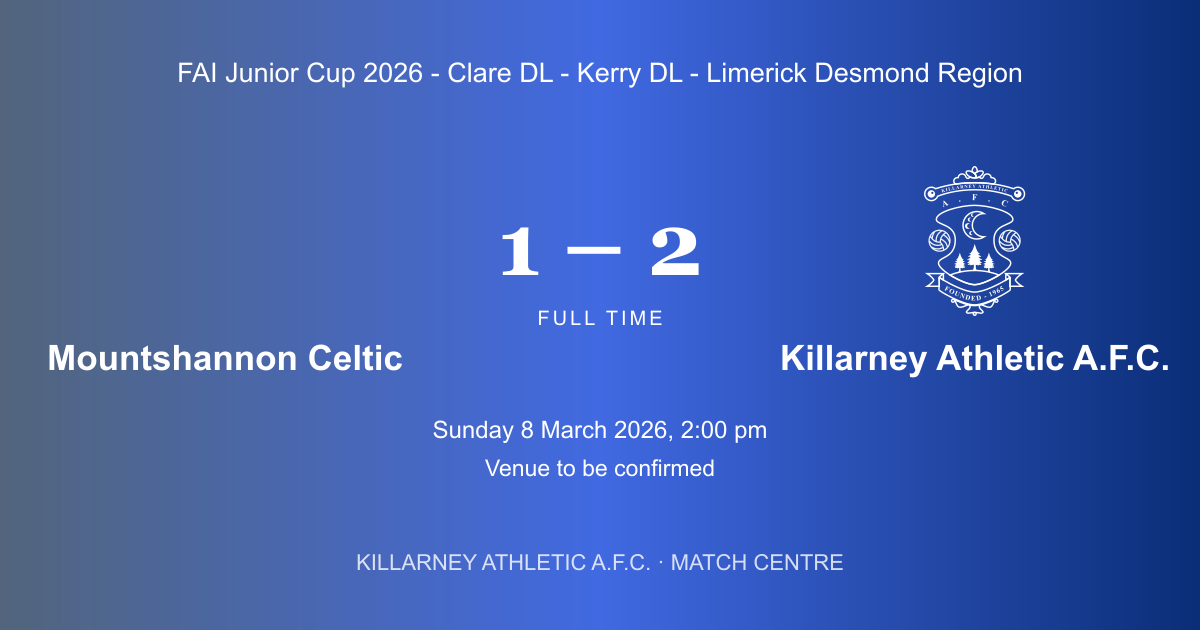
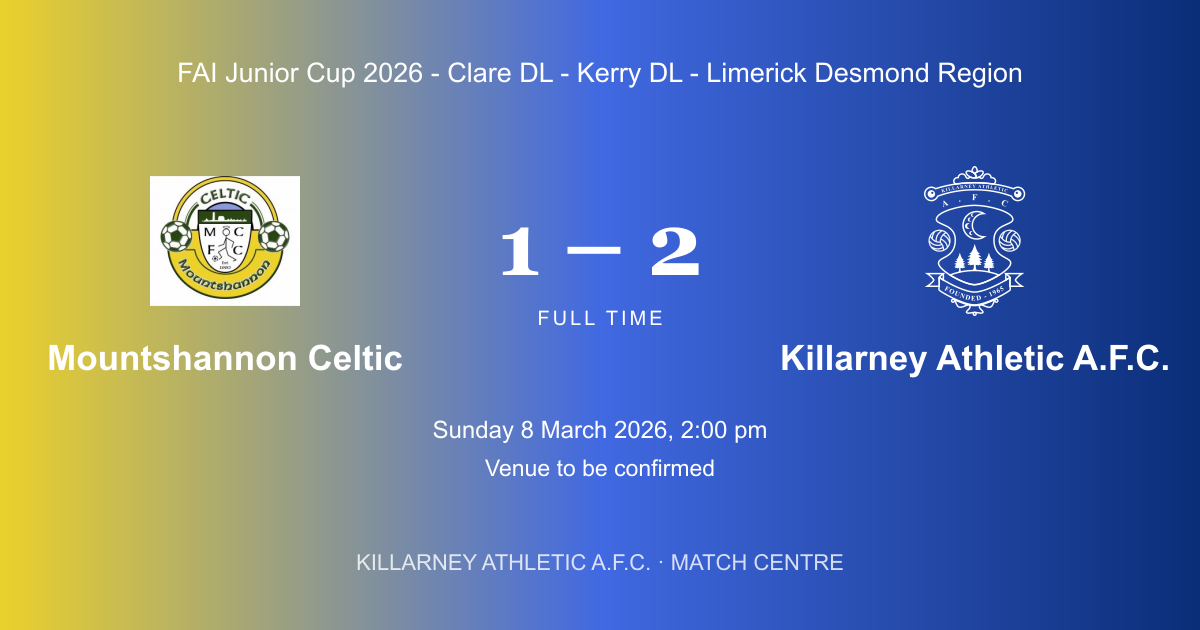
Refinment
feat: refine mobile fixture cards and add Mountshannon Celtic crest

diff --git a/src/styles/global.css b/src/styles/global.css
@@ -263,6 +263,7 @@ img { display: block; max-width: 100%; }
 .fixture-preview-list { display: grid; }
 .fixture-preview-row { display: grid; grid-template-columns: 7rem minmax(21rem, 1fr) 7rem minmax(8rem, .5fr) auto; grid-template-areas: 'squad match when venue action'; align-items: center; gap: 1rem; min-height: 92px; padding: 1rem 1.25rem; border-bottom: 1px solid var(--line); }
 .fixture-preview-row--past { background: rgb(16 23 32 / 4%); filter: saturate(.6); opacity: .72; }
+.fixture-preview-row__header { display: contents; }
 .fixture-preview-row__context { grid-area: squad; display: grid; justify-items: start; align-content: center; gap: .35rem; }
 .fixture-preview-row__squad { width: fit-content; margin: 0; color: var(--brand-navy); font-size: .76rem; font-weight: 650; white-space: nowrap; }
 .fixture-preview-row__badge { font-size: .65rem; white-space: nowrap; }
@@ -275,8 +276,11 @@ img { display: block; max-width: 100%; }
 .fixture-preview-row__when { grid-area: when; display: grid; gap: .1rem; padding-left: 1rem; border-left: 1px solid var(--line); font-size: .8rem; }
 .fixture-preview-row__when strong { color: var(--brand-navy); font-weight: 650; }
 .fixture-preview-row__when span { color: var(--muted); font-weight: 300; }
-.fixture-preview-row__venue { grid-area: venue; margin: 0; color: var(--muted); font-size: .78rem; font-weight: 300; line-height: 1.35; }
-.fixture-preview-row__action { grid-area: action; white-space: nowrap; }
+.fixture-preview-row__venue { grid-area: venue; display: flex; align-items: center; gap: .35rem; min-width: 0; margin: 0; color: var(--muted); font-size: .78rem; font-weight: 300; line-height: 1.35; }
+.fixture-preview-row__venue svg { flex: 0 0 auto; }
+.fixture-preview-row__venue span { overflow: hidden; text-overflow: ellipsis; }
+.fixture-preview-row__action { grid-area: action; display: inline-flex; align-items: center; justify-self: end; gap: .25rem; min-height: 2.25rem; padding: .35rem .15rem; color: var(--brand-navy); font-size: .75rem; font-weight: 650; text-decoration: none; white-space: nowrap; }
+.fixture-preview-row__action:hover,.fixture-preview-row__action:focus-visible { color: var(--brand-royal); text-decoration: underline; text-underline-offset: .2em; }
 .fixture-preview-panel__footer { display: flex; justify-content: flex-end; padding: .9rem 1.25rem; background: var(--card-background-muted); }
 .fixture-card { position: relative; display: flex; overflow: hidden; flex-direction: column; border: 1px solid var(--card-border); border-radius: var(--card-radius); color: var(--ink); background: var(--card-background); box-shadow: var(--card-shadow); transition: var(--card-transition); }
 .fixture-card__link { position: absolute; z-index: 2; inset: 0; border-radius: inherit; }
@@ -834,14 +838,25 @@ body.is-ui-kit-page .section-note { max-width: 640px; color: var(--muted); font-
   html { scroll-padding-top: 70px; }
   .fixture-preview-panel__toolbar { grid-template-columns: 1fr; gap: .45rem; padding: .85rem 1rem; }
   .fixture-preview-panel__toolbar p { justify-self: start; }
-  .fixture-preview-scroll { max-height: 330px; }
-  .fixture-preview-row { grid-template-columns: 1fr auto; grid-template-areas: 'squad when' 'match match' 'venue action'; gap: .7rem 1rem; padding: 1rem; }
-  .fixture-preview-row__when { justify-items: end; padding-left: 0; border-left: 0; }
-  .fixture-preview-row__match { gap: .45rem; }
+  .fixture-preview-scroll { max-height: none; overflow-y: visible; overscroll-behavior: auto; }
+  .fixture-preview-list { gap: .75rem; padding: .75rem; background: var(--card-background-muted); }
+  .fixture-preview-row { grid-template-columns: minmax(0, 1fr) auto; grid-template-areas: 'title title' 'match match' 'venue action'; gap: 0; min-height: 0; padding: 0; overflow: hidden; border: 1px solid var(--card-border); border-radius: .7rem; background: white; box-shadow: 0 2px 8px rgb(0 35 102 / 5%); }
+  .fixture-preview-row--past { background: #f8f9fb; filter: none; opacity: 1; }
+  .fixture-preview-row__header { grid-area: title; position: relative; display: flex; align-items: center; justify-content: space-between; gap: .5rem; padding: 1rem; border-bottom: 1px solid var(--line); background: #fff; }
+  .fixture-preview-row__context { display: block; width: calc(50% - 2.65rem); }
+  .fixture-preview-row__squad { font-size: .78rem; font-weight: 750; }
+  .fixture-preview-row__badge { position: absolute; top: 50%; left: 50%; min-height: 1.45rem; padding: .14rem .42rem; font-size: .62rem; transform: translate(-50%, -50%); }
+  .fixture-preview-row__when { display: flex; align-items: baseline; justify-content: flex-end; gap: .2rem; width: calc(50% - 2.65rem); margin-left: auto; padding-left: 0; border-left: 0; text-align: right; white-space: nowrap; }
+  .fixture-preview-row__when strong { font-size: .72rem; font-weight: 750; }
+  .fixture-preview-row__when span { font-size: .7rem; }
+  .fixture-preview-row__match { gap: .55rem; padding: 1rem 1rem .75rem; }
   .fixture-preview-row__club { align-items: center; flex-direction: column; gap: .35rem; text-align: center; }
   .fixture-preview-row__club--home { justify-content: center; text-align: center; }
   .fixture-preview-row__club--home img { order: -1; }
-  .fixture-preview-row__club strong { font-size: .76rem; white-space: normal; }
+  .fixture-preview-row__club strong { color: var(--ink); font-size: .76rem; font-weight: 600; white-space: normal; }
+  .fixture-preview-row__versus { color: var(--brand-navy); font-size: 1.25rem; font-weight: 700; }
+  .fixture-preview-row__venue { align-self: center; padding: 0 0 1rem 1rem; }
+  .fixture-preview-row__action { align-self: center; min-height: 2.75rem; margin-right: .65rem; padding: 0 .35rem 1rem; }
   .fixture-preview-panel__footer { justify-content: stretch; }
   .fixture-preview-panel__footer .ui-button { width: 100%; }
   .site-header__inner { width: 100%; min-height: 68px; padding-inline: .85rem; }

diff --git a/scripts/sync-fai.ts b/scripts/sync-fai.ts
@@ -24,7 +24,8 @@ const slugify = (value: string) => value.toLowerCase().replace(/&/g, 'and').repl
 const knownColours: Record<string, string> = {
   'ballyheigue-athletic-fc': '#078b21', 'castleisland-afc': '#56aeda', 'classic-fc': '#bd242c',
   'killarney-celtic-fc': '#08723e', 'killorglin-afc': '#242650', 'listowel-celtic-afc': '#087c5c',
-  'mastergeeha-fc': '#5874ad', 'st-brendans-park-fc': '#d92830', 'tralee-dynamos': '#b31f2b',
+  'mastergeeha-fc': '#5874ad', 'mountshannon-celtic': '#a89921', 'st-brendans-park-fc': '#d92830',
+  'tralee-dynamos': '#b31f2b',
 };
 const knownCrests = new Set(Object.keys(knownColours));
 const derivedColours = new Map<number, string>();
